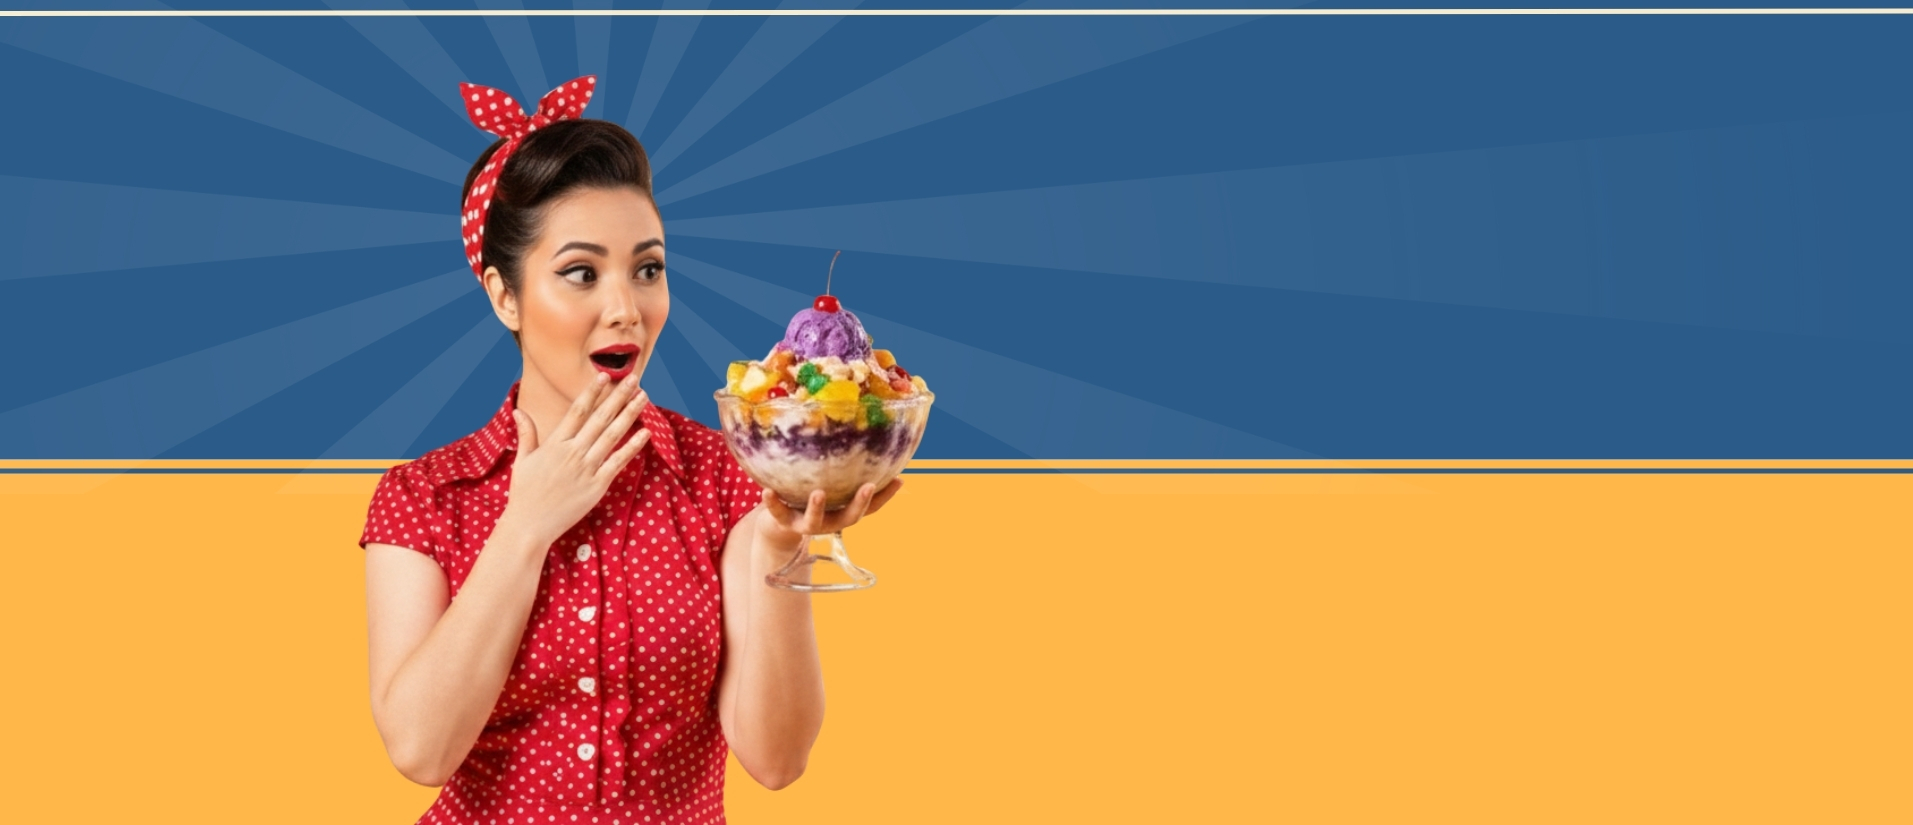
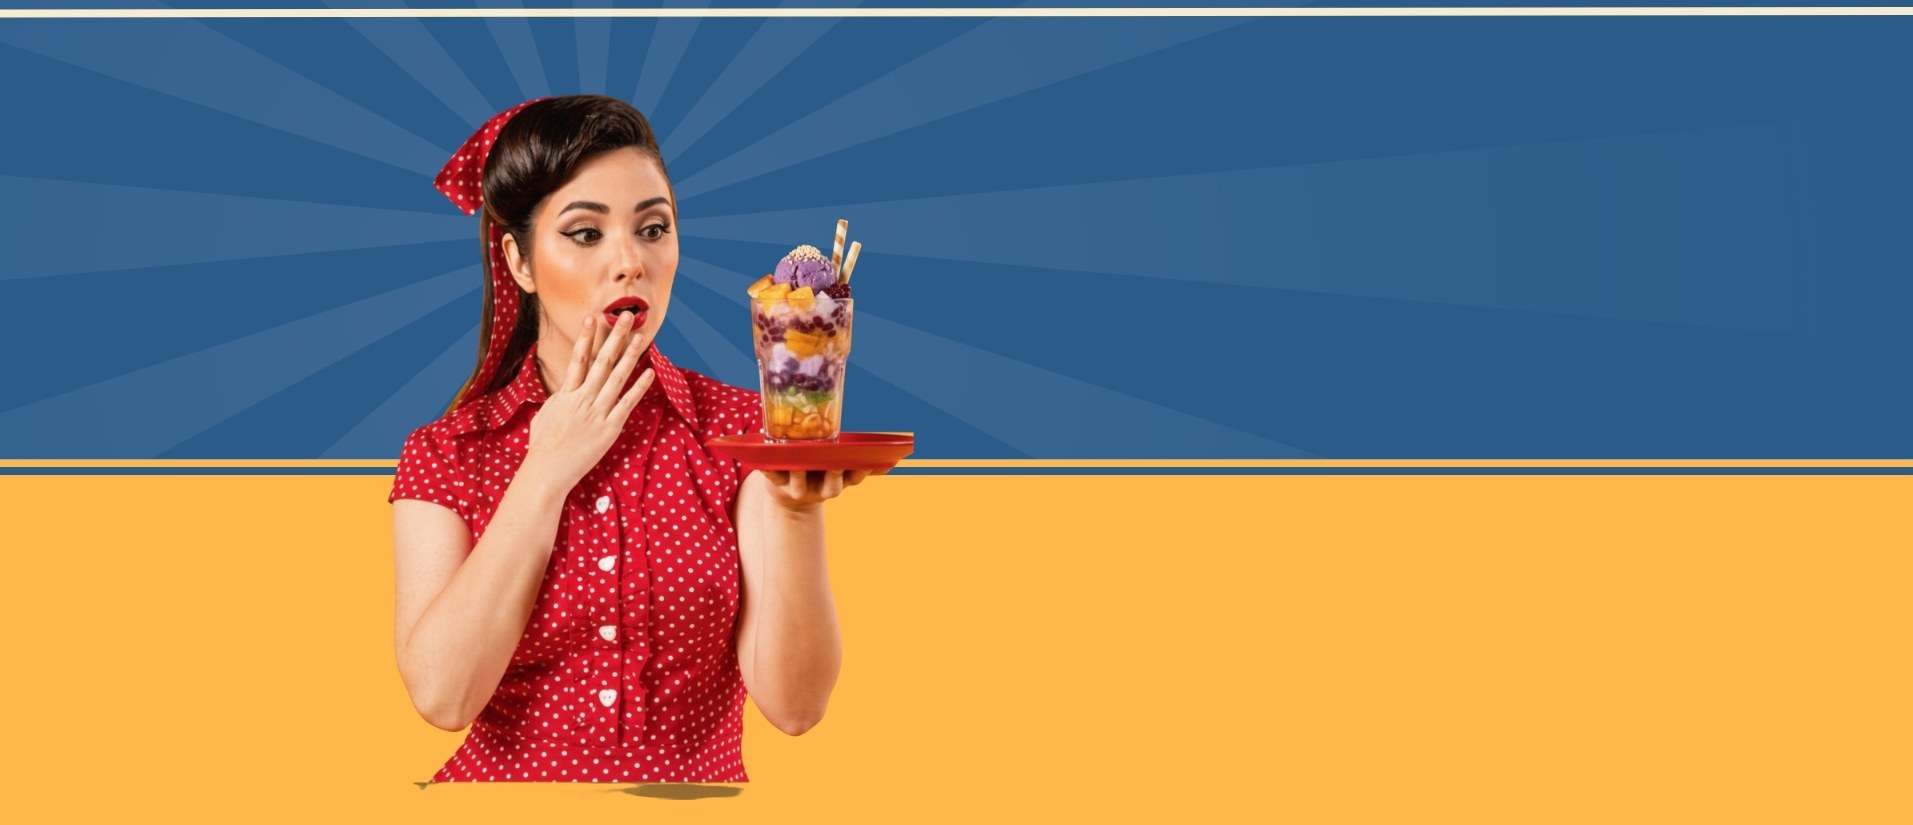
edit bg

Changed region(s): [[0.0, 0.0909, 1.0, 1.0], [0.0, 0.0, 1.0, 0.0303]]

diff --git a/css/style.css b/css/style.css
@@ -30,7 +30,7 @@
   list-style: none;
   display: flex;
   gap: 2rem;
-  letter-spacing: 1.5px;
+  letter-spacing: 1.3px;
 }
 
 .nav-links a {
@@ -87,7 +87,7 @@
 
 .main-bg {
   height: calc(100vh - 120px);
-  background-image: url("../img/home-bg2.jpg");
+  background-image: url("../img/home-bg.jpg");
   background-repeat: no-repeat;
   background-size: cover;
   background-position: top center;
